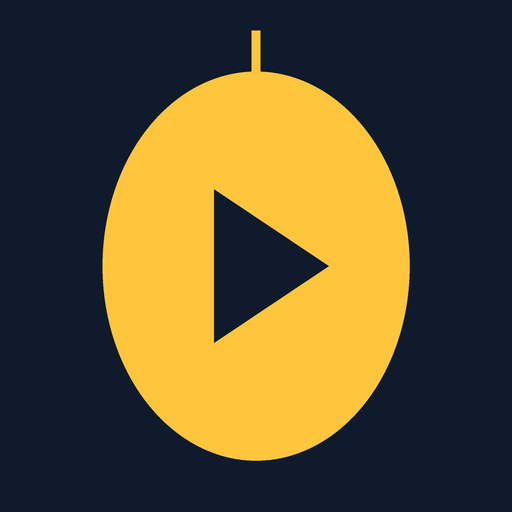
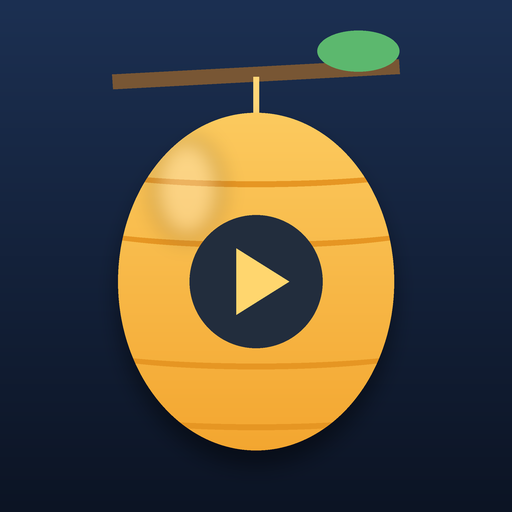
Ícone do Casulo Play refinado
Claude-Session: https://claude.ai/code/session_01UhsnjRY4hwCejsuHBtrKzE

diff --git a/index.html b/index.html
@@ -11,7 +11,7 @@
 <meta name="apple-mobile-web-app-title" content="Casulo Play">
 <meta name="apple-mobile-web-app-status-bar-style" content="black">
 <meta name="theme-color" content="#0b1422">
-<meta name="mt-build" content="20261127122343">
+<meta name="mt-build" content="20261127122437">
 <link rel="preconnect" href="https://fonts.googleapis.com">
 <link rel="stylesheet" href="https://cdn.jsdelivr.net/npm/@tabler/icons-webfont@3.19.0/dist/tabler-icons.min.css">
 <link href="https://fonts.googleapis.com/css2?family=Nunito:wght@500;700;900&display=swap" rel="stylesheet">
